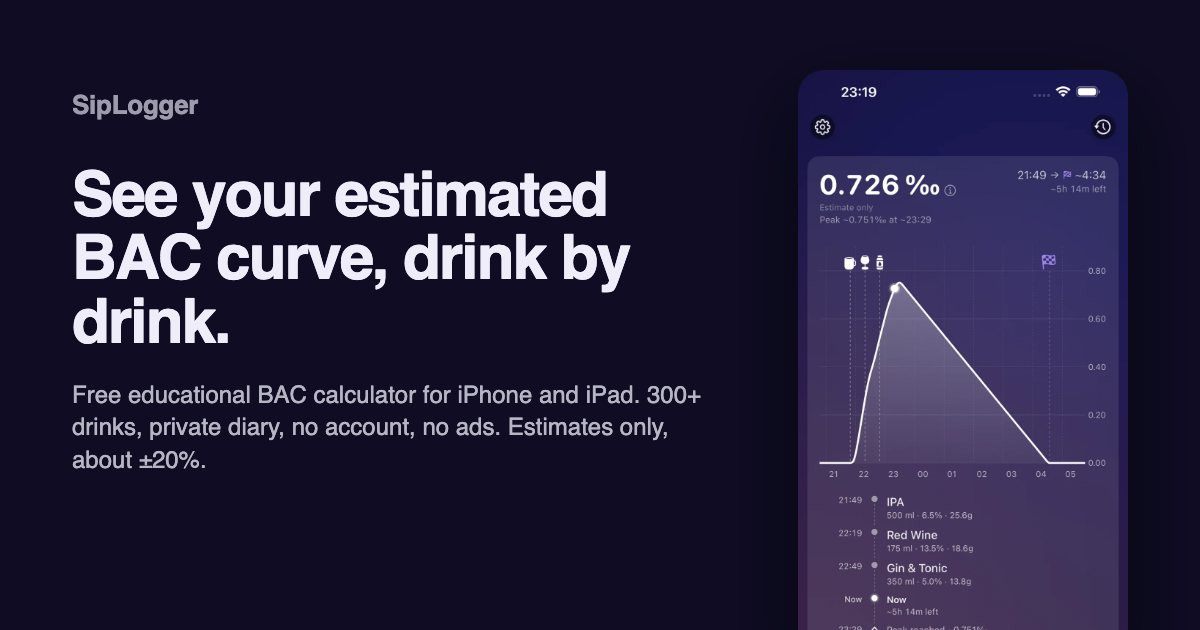
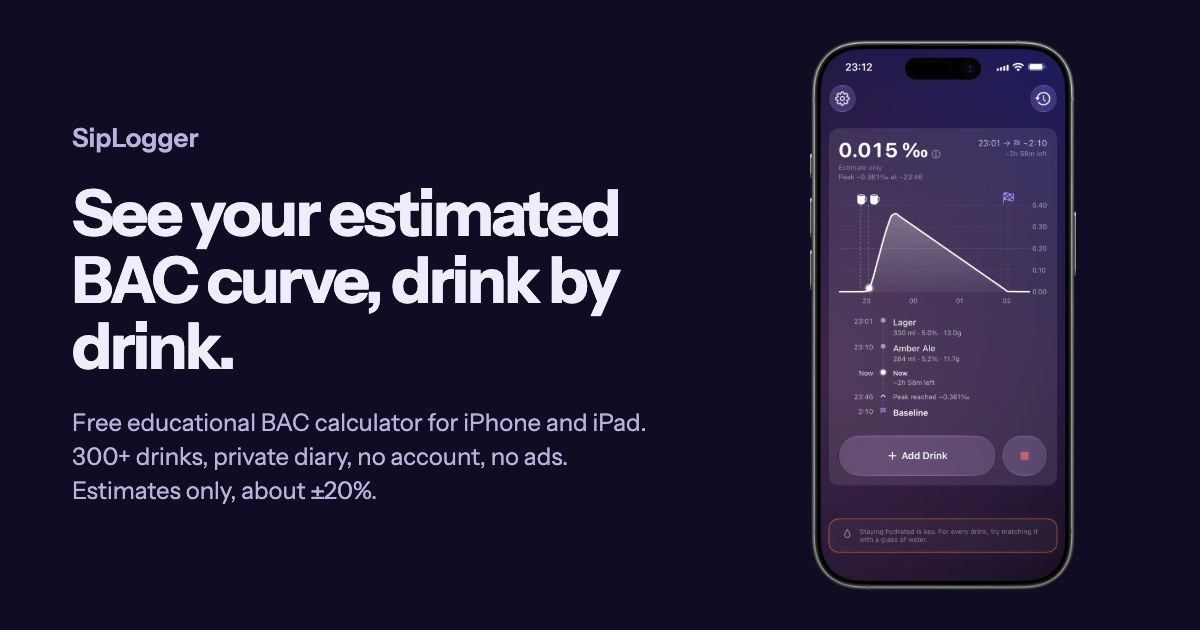
Fix driving and superlative copy, refresh share image

Changed region(s): [[0.6475, 0.0603, 0.9558, 1.0], [0.0617, 0.2714, 0.5858, 0.8143], [0.0617, 0.1508, 0.185, 0.2413]]

diff --git a/index.html b/index.html
@@ -203,7 +203,7 @@
                         "name": "Does SipLogger tell me when I can drive?",
                         "acceptedAnswer": {
                             "@type": "Answer",
-                            "text": "No. SipLogger is an educational tool and never provides driving advice. The app shows when your estimated BAC approaches baseline levels, but this should never be used to determine fitness to drive. Always use a certified breathalyzer or wait a safe amount of time before driving. When in doubt, use a taxi or rideshare."
+                            "text": "No. SipLogger is an educational tool and never provides driving advice. The app shows when your estimated BAC approaches baseline levels, but this should never be used to determine fitness to drive. If you have been drinking, do not drive: take a taxi, a rideshare, or public transport."
                         }
                     },
                     {
@@ -547,7 +547,7 @@
             </details>
             <details class="faq-item">
                 <summary>Does SipLogger tell me when I can drive?</summary>
-                <p>No. SipLogger is an educational tool and never provides driving advice. The app shows when your estimated BAC approaches baseline levels, but this should never be used to determine fitness to drive. Always use a certified breathalyzer or wait a safe amount of time. When in doubt, use a taxi or rideshare.</p>
+                <p>No. SipLogger is an educational tool and never provides driving advice. The app shows when your estimated BAC approaches baseline levels, but this should never be used to determine fitness to drive. If you have been drinking, do not drive: take a taxi, a rideshare, or public transport.</p>
             </details>
             <details class="faq-item">
                 <summary>Is my data private?</summary>

diff --git a/index.html.md b/index.html.md
@@ -149,7 +149,7 @@ The estimated BAC has approximately ±20% accuracy. Individual metabolism varies
 
 ### Does SipLogger tell me when I can drive?
 
-No. SipLogger is an educational tool and never provides driving advice. The app shows when your estimated BAC approaches baseline levels, but this should never be used to determine fitness to drive. Always use a certified breathalyzer or wait a safe amount of time. When in doubt, use a taxi or rideshare.
+No. SipLogger is an educational tool and never provides driving advice. The app shows when your estimated BAC approaches baseline levels, but this should never be used to determine fitness to drive. If you have been drinking, do not drive: take a taxi, a rideshare, or public transport.
 
 ### Is my data private?
 
